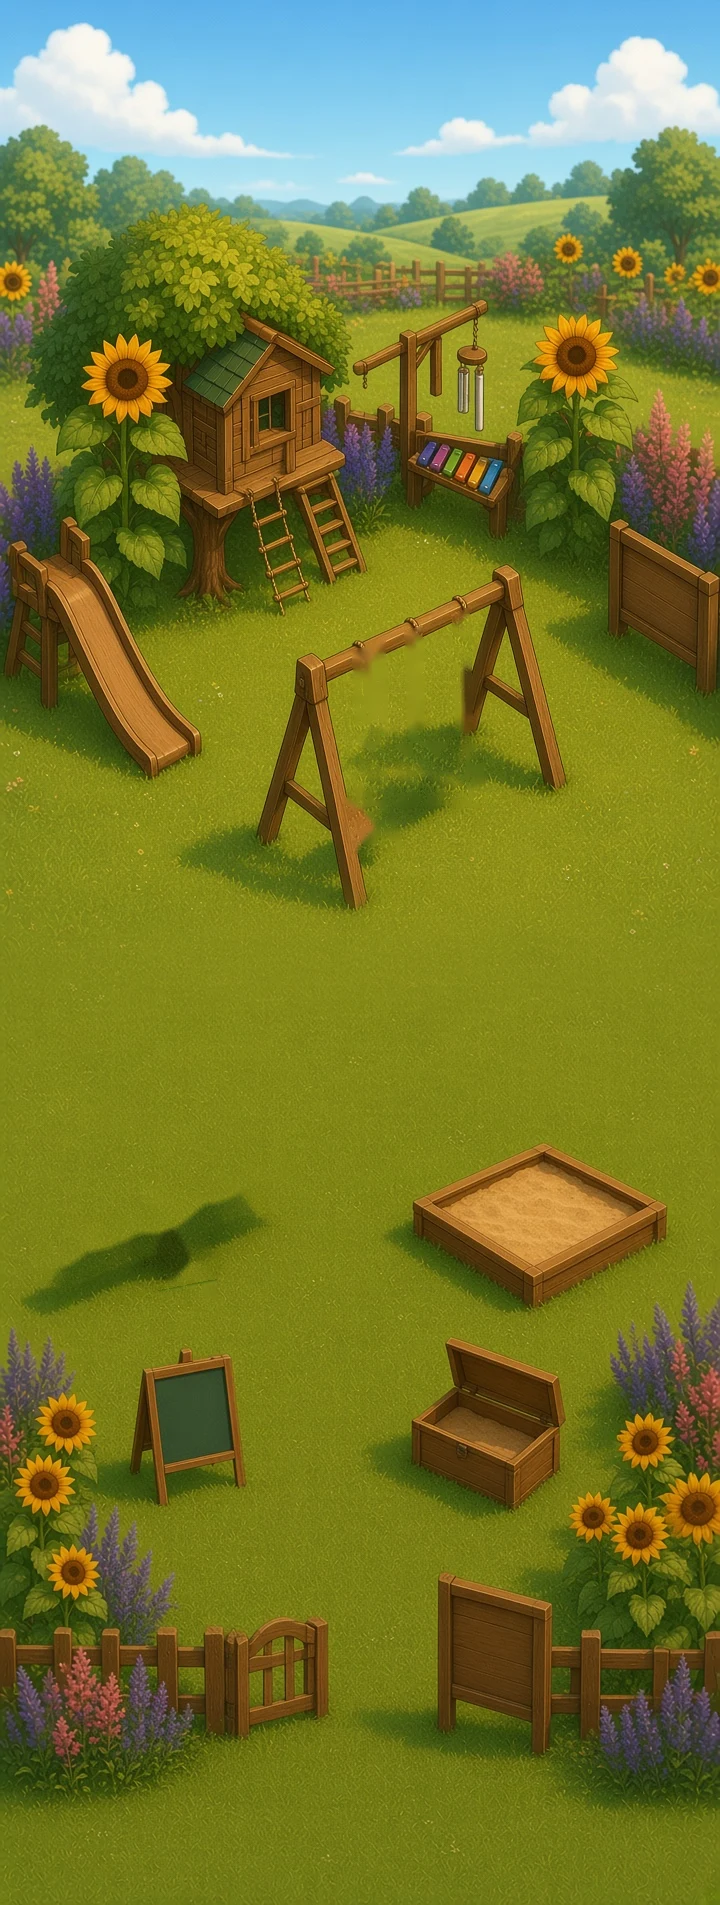
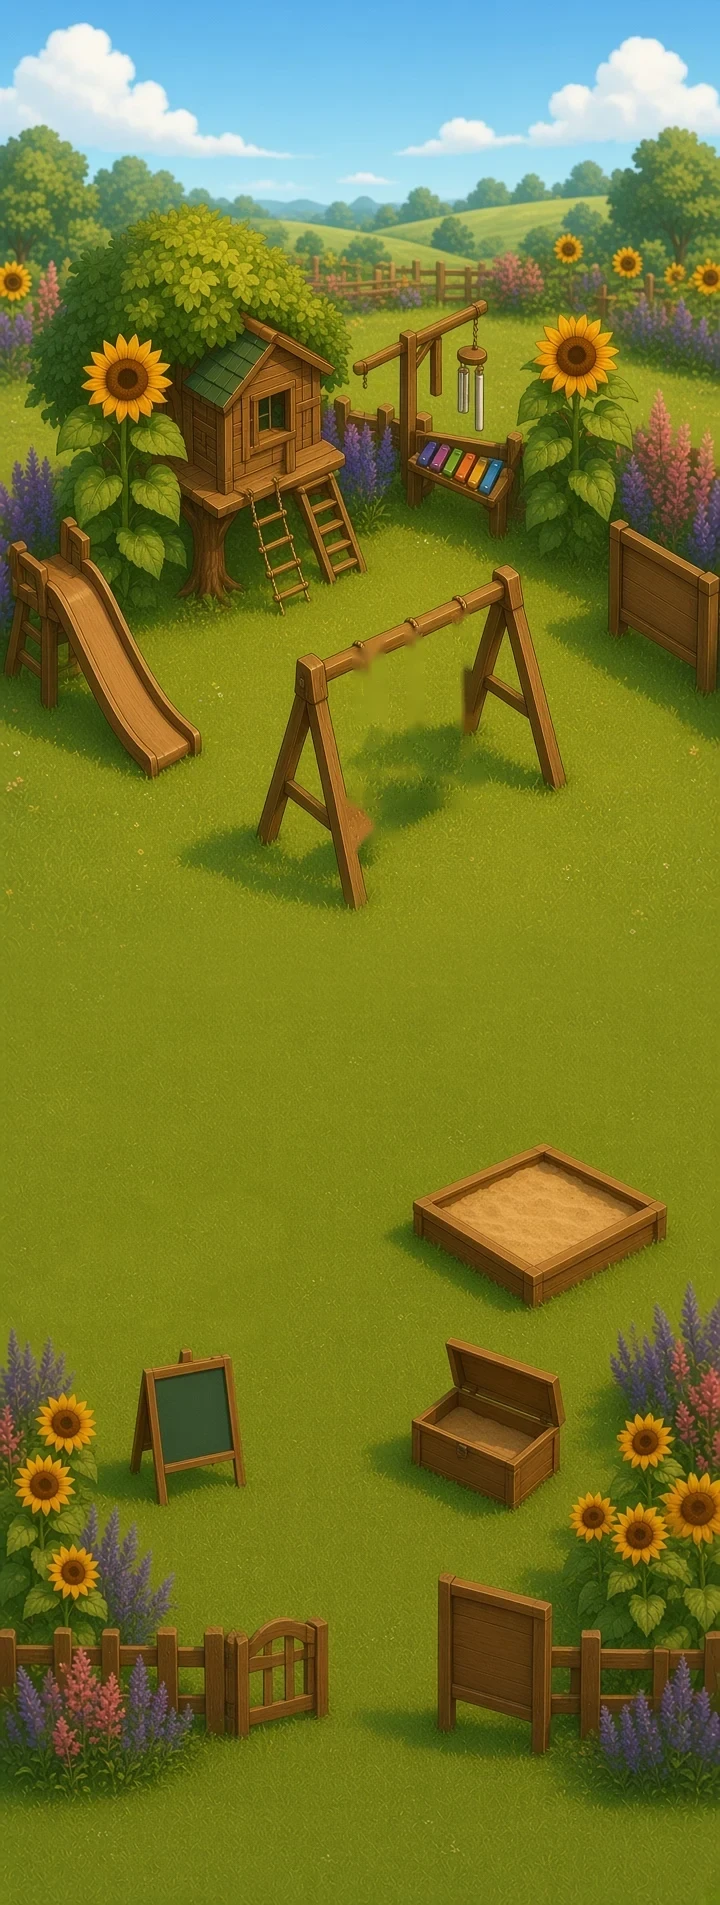
v40: seesaw plank rests on post axle, real tilt, moving shadows, SW bot-town-v40

Changed region(s): [[0.0306, 0.6194, 0.3667, 0.7123]]

diff --git a/app.js b/app.js
@@ -952,17 +952,41 @@
     setOliToy(t);
   }
   function buildToys(R, act) {
-    // seesaw: tap to tip it
-    const S = R.seesaw, pl = document.createElement('img'), po = document.createElement('img'); let tilt = 0;
-    [pl, po].forEach((e, i) => { e.className = 'pg-ss'; e.draggable = false; e.alt = ''; e.src = i ? S.post : S.plank; Object.assign(e.style, { left: S.box.left + '%', top: S.box.top + '%', width: S.box.width + '%', height: S.box.height + '%', zIndex: 640 + i }); act.appendChild(e); });
-    pl.style.transformOrigin = S.origin; pl.setAttribute('role', 'button'); pl.setAttribute('aria-label', 'Seesaw');
-    // v39: rests with one end on the grass; a tap tips it over to the other end with a gentle bump-and-settle
-    const sk = d => `skewY(${d.toFixed(2)}deg)`; let side = 'L'; pl.style.transform = sk(S.downL || -16);
-    const tip = () => { const from = side === 'L' ? S.downL : S.downR, to = side === 'L' ? S.downR : S.downL; side = side === 'L' ? 'R' : 'L'; buzz(10);
-      pgNote(side === 'R' ? 196 : 262, .5, 'sine', .12); pl.getAnimations().forEach(x => x.cancel()); pl.style.transform = sk(to);
-      if (!motionOK) return;
-      const at = f => sk(from + (to - from) * f);
-      pl.animate([{ transform: at(0), easing: 'cubic-bezier(.45,0,.9,.6)' }, { transform: at(1), offset: .55, easing: 'ease-out' }, { transform: at(.86), offset: .72, easing: 'ease-in' }, { transform: at(1), offset: .86, easing: 'ease-out' }, { transform: at(.97), offset: .93 }, { transform: at(1) }], { duration: 900 }); };
+    // seesaw (v40): the plank tilts in 3D about the axle; its cast shadow and the end's contact shadow follow
+    const S = R.seesaw, pl = document.createElement('img'), po = document.createElement('img'), psh = document.createElement('img'), tsh = document.createElement('img');
+    const W0 = 280, H0 = 160, [px, py] = S.pivot, [ax, ay] = S.e1, [sbx, sby] = S.e2, det = ax * sby - ay * sbx, iA = [sby / det, -sbx / det]; // row of B^-1 giving "distance along the plank"
+    [[pl, S.plank, 642], [po, S.post, 641], [psh, S.plankShadow, 630], [tsh, S.postShadow, 631]].forEach(([e, src, z]) => { e.className = 'pg-ss'; e.draggable = false; e.alt = ''; e.src = src;
+      Object.assign(e.style, { left: S.box.left + '%', top: S.box.top + '%', width: S.box.width + '%', height: S.box.height + '%', zIndex: z, transformOrigin: `${px / W0 * 100}% ${py / H0 * 100}%` }); act.appendChild(e); });
+    psh.style.pointerEvents = tsh.style.pointerEvents = 'none';
+    const dots = S.ends.map(() => { const d = document.createElement('div'); d.className = 'pg-ss-contact'; d.style.zIndex = 632; act.appendChild(d); return d; });
+    const toPct = (x, y) => [S.box.left + x / W0 * S.box.width, S.box.top + y / H0 * S.box.height];
+    let phi = S.phiL, side = 'L', raf = 0;
+    const pose = deg => { // v40: rigid 3D rotation in the plane of the plank and the vertical (basis e1, up = (0,-kv)), so thickness and handles stay solid
+      const r = deg * Math.PI / 180, s = Math.sin(r), c = Math.cos(r), kv = S.kv;
+      const ux = c * ax, uy = c * ay - s * kv, vx2 = -s * ax, vy2 = -s * ay - c * kv; // images of e1 and of up
+      const B = [[1 / ax, 0], [ay / (ax * kv), -1 / kv]];
+      const m = [ux * B[0][0] + vx2 * B[1][0], uy * B[0][0] + vy2 * B[1][0], ux * B[0][1] + vx2 * B[1][1], uy * B[0][1] + vy2 * B[1][1]];
+      pl.style.transform = `matrix(${m.map(v => v.toFixed(4)).join(',')},0,0)`;
+      // cast shadow: the plank's top face, each point dropped to the grass and drifted along the light by its height
+      const gs = s, gc = c, gx = gc * ax, gy = gc * ay - gs * kv, Gi = [[sby / det, -sbx / det], [-ay / det, ax / det]];
+      const g = [gx * Gi[0][0] + sbx * Gi[1][0], gy * Gi[0][0] + sby * Gi[1][0], gx * Gi[0][1] + sbx * Gi[1][1], gy * Gi[0][1] + sby * Gi[1][1]];
+      const k = kv * s, [lx, ly] = S.light;
+      const sm = [g[0] + k * lx * iA[0], g[1] + k * ly * iA[0], g[2] + k * lx * iA[1], g[3] + k * ly * iA[1]];
+      psh.style.transform = `translate(${(S.z0 * lx / W0 * 100).toFixed(3)}%,${(S.z0 * ly / H0 * 100).toFixed(3)}%) matrix(${sm.map(v => v.toFixed(4)).join(',')},0,0)`;
+      S.ends.forEach(([ex, ey], n) => { const vx = ex - px, vy = ey - py, al = vx / ax, H = (al * ay - vy) / kv, z = S.z0 + kv * (s * al + c * H);
+        const qx = px + m[0] * vx + m[2] * vy, qy = py + m[1] * vx + m[3] * vy, [L, T] = toPct(qx, qy + 1.5), d = dots[n];
+        d.style.left = L + '%'; d.style.top = T + '%'; d.style.opacity = Math.max(0, 1 - Math.max(0, z) / 14).toFixed(2); }); };
+    pose(phi);
+    pl.setAttribute('role', 'button'); pl.setAttribute('aria-label', 'Seesaw');
+    const tip = () => { const from = phi, to = side === 'L' ? S.phiR : S.phiL; side = side === 'L' ? 'R' : 'L'; buzz(10); pgNote(side === 'R' ? 196 : 262, .5, 'sine', .12);
+      cancelAnimationFrame(raf); if (!motionOK) { pose(phi = to); return; }
+      const t0 = performance.now(), D = 950;
+      const f = u => { // fall with gravity, land, one soft bump, settle (never past the grass)
+        if (u < .5) { const q = u / .5; return q * q; }
+        if (u < .75) { const q = (u - .5) / .25; return 1 - .12 * Math.sin(q * Math.PI); }
+        const q = (u - .75) / .25; return 1 - .035 * Math.sin(q * Math.PI); };
+      const step = now => { const u = Math.min(1, (now - t0) / D); phi = from + (to - from) * f(u); pose(phi); if (u < 1) raf = requestAnimationFrame(step); else if (u >= 1) { phi = to; pose(phi); buzz(6); } };
+      raf = requestAnimationFrame(step); };
     [pl, po].forEach(e => e.onclick = ev => { ev.stopPropagation(); tip(); });
     // v35: tap the slide to sit at the top (or hop off)
     const sl = document.createElement('div'); sl.className = 'link zone pg-slide'; sl.setAttribute('role', 'button'); sl.setAttribute('aria-label', 'Slide');
@@ -1110,7 +1134,7 @@
     j.textContent = here ? 'Head home' : 'Join in'; j.onclick = ev => { ev.stopPropagation(); setOli(here ? CFG.player : curId, 'idle'); };
     box.appendChild(j);
   }
-  function buildPlayFresh() { $('#actors').querySelectorAll('.block,.ball,.swing,.pboard,.pg-ss,.pg-slide,.pg-sand,.pg-chalk,.pg-chest,.pg-bubble,.pg-key,.pg-chimes,.pg-kite,.pg-string').forEach(e => e.remove()); buildPlay(); }
+  function buildPlayFresh() { $('#actors').querySelectorAll('.block,.ball,.swing,.pboard,.pg-ss,.pg-ss-contact,.pg-slide,.pg-sand,.pg-chalk,.pg-chest,.pg-bubble,.pg-key,.pg-chimes,.pg-kite,.pg-string').forEach(e => e.remove()); buildPlay(); }
 
   // ----- the town post: letters from any bot, write to any bot -----
   let letters = [];

diff --git a/sw.js b/sw.js
@@ -1,7 +1,7 @@
-const CACHE = 'bot-town-v39';
+const CACHE = 'bot-town-v40';
 const ASSETS = ['./', 'index.html', 'style.css', 'config.js', 'music.js', 'app.js','starmap.js', 'manifest.json',
   'assets/map-v3.webp', 'assets/starfall-hill-v3-empty.webp','assets/park-v31/blanket-gorbo.webp','assets/park-v31/blanket-gorbo-night.webp','assets/park-v31/blanket-loria.webp','assets/park-v31/blanket-loria-night.webp','assets/park-v31/blanket-olithia.webp','assets/park-v31/blanket-olithia-night.webp','assets/park-v31/blanket-scout.webp','assets/park-v31/blanket-scout-night.webp','assets/park-v31/board-gorbo.webp','assets/park-v31/board-gorbo-night.webp','assets/park-v31/board-loria.webp','assets/park-v31/board-loria-night.webp','assets/park-v31/board-olithia.webp','assets/park-v31/board-olithia-night.webp','assets/park-v31/board-scout.webp','assets/park-v31/board-scout-night.webp','assets/park-v31/crest-gorbo.webp','assets/park-v31/scope-olithia.webp','assets/park-v31/scope-olithia-night.webp','assets/park-v31/crest-gorbo-night.webp','assets/park-v31/crest-loria.webp','assets/park-v31/crest-loria-night.webp','assets/park-v31/crest-olithia.webp','assets/park-v31/crest-olithia-night.webp','assets/park-v31/crest-scout.webp','assets/park-v31/crest-scout-night.webp','assets/park-v31/market-gorbo.webp','assets/park-v31/market-gorbo-night.webp','assets/park-v31/market-loria.webp','assets/park-v31/market-loria-night.webp','assets/park-v31/market-olithia.webp','assets/park-v31/market-olithia-night.webp','assets/park-v31/market-scout.webp','assets/park-v31/market-scout-night.webp','assets/park-v31/nook-gorbo.webp','assets/park-v31/nook-gorbo-night.webp','assets/park-v31/nook-loria.webp','assets/park-v31/nook-loria-night.webp','assets/park-v31/nook-olithia.webp','assets/park-v31/nook-olithia-night.webp','assets/park-v31/nook-scout.webp','assets/park-v31/nook-scout-night.webp','assets/park-v31/swap-gorbo.webp','assets/park-v31/swap-gorbo-night.webp','assets/park-v31/swap-loria.webp','assets/park-v31/swap-loria-night.webp','assets/park-v31/swap-olithia.webp','assets/park-v31/swap-olithia-night.webp','assets/park-v31/swap-scout.webp','assets/park-v31/swap-scout-night.webp','assets/park-v31/tea-gorbo.webp','assets/park-v31/tea-gorbo-night.webp','assets/park-v31/tea-loria.webp','assets/park-v31/tea-loria-night.webp','assets/park-v31/tea-olithia.webp','assets/park-v31/tea-olithia-night.webp','assets/park-v31/tea-scout.webp','assets/park-v31/tea-scout-night.webp', 'assets/starfall-hill-v3-night-empty.webp', 'assets/park-olithia-day.webp', 'assets/park-olithia-night.webp', 'assets/park-scope-gorbo.webp', 'assets/park-scope-loria.webp', 'assets/park-scope-scout.webp', 'assets/park-scope-olithia.webp', 'assets/park-gorbo-day.webp', 'assets/park-gorbo-night.webp', 'assets/park-loria-day.webp', 'assets/park-loria-night.webp', 'assets/park-scout-day.webp', 'assets/park-scout-night.webp',
-  'assets/sprite-gorbo.webp', 'assets/sprite-loria.webp', 'assets/sprite-scout.webp', 'assets/face-gorbo.webp', 'assets/face-loria.webp', 'assets/face-scout.webp', 'assets/sprite-olithia.webp', 'assets/face-olithia.webp', 'assets/playground-v3.webp','assets/pg39-seesaw-plank.webp','assets/pg39-seesaw-stand.webp','assets/pg3-swing-leg.webp','assets/pg-seesaw-plank.webp','assets/pg-seesaw-post.webp','assets/pg37-swA-gorbo.webp','assets/pg37-swA-loria.webp','assets/pg37-swA-scout.webp','assets/pg37-swA-olithia.webp','assets/pg37-swB-gorbo.webp','assets/pg37-swB-loria.webp','assets/pg37-swB-scout.webp','assets/pg37-swB-olithia.webp','assets/pg37-slide-gorbo.webp','assets/pg37-slide-loria.webp','assets/pg37-slide-scout.webp','assets/pg37-slide-olithia.webp','assets/pg37-sand-gorbo.webp','assets/pg37-sand-loria.webp','assets/pg37-sand-scout.webp','assets/pg37-sand-olithia.webp', 'assets/playground-swing.webp', 'assets/scout-house-v4-working-v2.webp',
+  'assets/sprite-gorbo.webp', 'assets/sprite-loria.webp', 'assets/sprite-scout.webp', 'assets/face-gorbo.webp', 'assets/face-loria.webp', 'assets/face-scout.webp', 'assets/sprite-olithia.webp', 'assets/face-olithia.webp', 'assets/playground-v3.webp','assets/pg40-seesaw-plank.webp','assets/pg40-seesaw-plankshadow.webp','assets/pg40-seesaw-standshadow.webp','assets/pg40-seesaw-stand.webp','assets/pg3-swing-leg.webp','assets/pg-seesaw-plank.webp','assets/pg-seesaw-post.webp','assets/pg37-swA-gorbo.webp','assets/pg37-swA-loria.webp','assets/pg37-swA-scout.webp','assets/pg37-swA-olithia.webp','assets/pg37-swB-gorbo.webp','assets/pg37-swB-loria.webp','assets/pg37-swB-scout.webp','assets/pg37-swB-olithia.webp','assets/pg37-slide-gorbo.webp','assets/pg37-slide-loria.webp','assets/pg37-slide-scout.webp','assets/pg37-slide-olithia.webp','assets/pg37-sand-gorbo.webp','assets/pg37-sand-loria.webp','assets/pg37-sand-scout.webp','assets/pg37-sand-olithia.webp', 'assets/playground-swing.webp', 'assets/scout-house-v4-working-v2.webp',
   'assets/olithia-house-v4.webp', 'assets/olithia-house-v4-exterior.webp',
   'assets/olithia-house-v4-idle.webp', 'assets/olithia-house-v4-working.webp', 'assets/olithia-house-v4-sitting.webp',
   'assets/gorbo-house-v4.webp',

diff --git a/config.js b/config.js
@@ -185,7 +185,9 @@ window.BOT_TOWN = {
         swings: [{ toy: "swing", x: 384, y: 630, L: 150, half: 27, slope: .47, z: 440, patch: "A" }, { toy: "swing2", x: 459, y: 597, L: 138, half: 22, slope: .47, z: 410, patch: "B" }],
         swingRiders: "assets/pg37-sw", // v37: painted rider+seat+ropes patch <A|B>-<id>.webp, 140x250 art px, crossbar pivot at (70,24); rotates around the pivot
         swingLeg: { src: "assets/pg3-swing-leg.webp", box: [40.28, 35.7, 11.39, 12.18], z: 446 }, // front-left leg in front of the left swing
-        seesaw: { plank: "assets/pg39-seesaw-plank.webp", post: "assets/pg39-seesaw-stand.webp", box: { left: 4.17, top: 59.84, width: 38.89, height: 8.4 }, origin: "56.07% 46.25%", downL: -16.3, downR: 24 } /* v39: one whole plank, skewY around the axle so the ends move straight up/down in the isometric view and stop at the ground */,
+        seesaw: { plank: "assets/pg40-seesaw-plank.webp", post: "assets/pg40-seesaw-stand.webp", plankShadow: "assets/pg40-seesaw-plankshadow.webp", postShadow: "assets/pg40-seesaw-standshadow.webp", box: { left: 4.17, top: 59.84, width: 38.89, height: 8.4 },
+          /* v40: true 3D tilt about the axle (sprite px 280x160): plank dir e1, axle dir e2, kv = screen px of height per px along the plank, z0 = axle height above the grass, light = shadow drift per px of height */
+          pivot: [161, 82], e1: [.926, -.377], e2: [.7915, .6112], kv: 1.1, z0: 56, light: [-.17, .62], ends: [[34, 134.6], [264.7, 36]], phiL: 21.4, phiR: -28.8 },
         sandbox: [[60.28, 63.15], [75.56, 60.68], [89.31, 63.46], [74.31, 66.25]], // v38: inner sand corners of the painted frame (art px / size)
         chalk: { left: 21.53, top: 72.34, width: 8.33, height: 4.83, skew: 0 },
         chest: { left: 57.64, top: 70.6, width: 20.14, height: 8.92 },

diff --git a/style.css b/style.css
@@ -366,3 +366,5 @@ button{font-family:inherit;color:inherit;cursor:pointer;touch-action:manipulatio
 
 #actors .swing-rider,#actors .pg-toy.boxed{transform:none}
 #actors .swing-rider,#actors .pg-toy.boxed{filter:none}
+
+#actors .pg-ss-contact{position:absolute;width:5%;height:.9%;margin:-.45% 0 0 -2.5%;border-radius:50%;background:radial-gradient(closest-side,rgba(30,40,10,.55),rgba(30,40,10,0));pointer-events:none}
